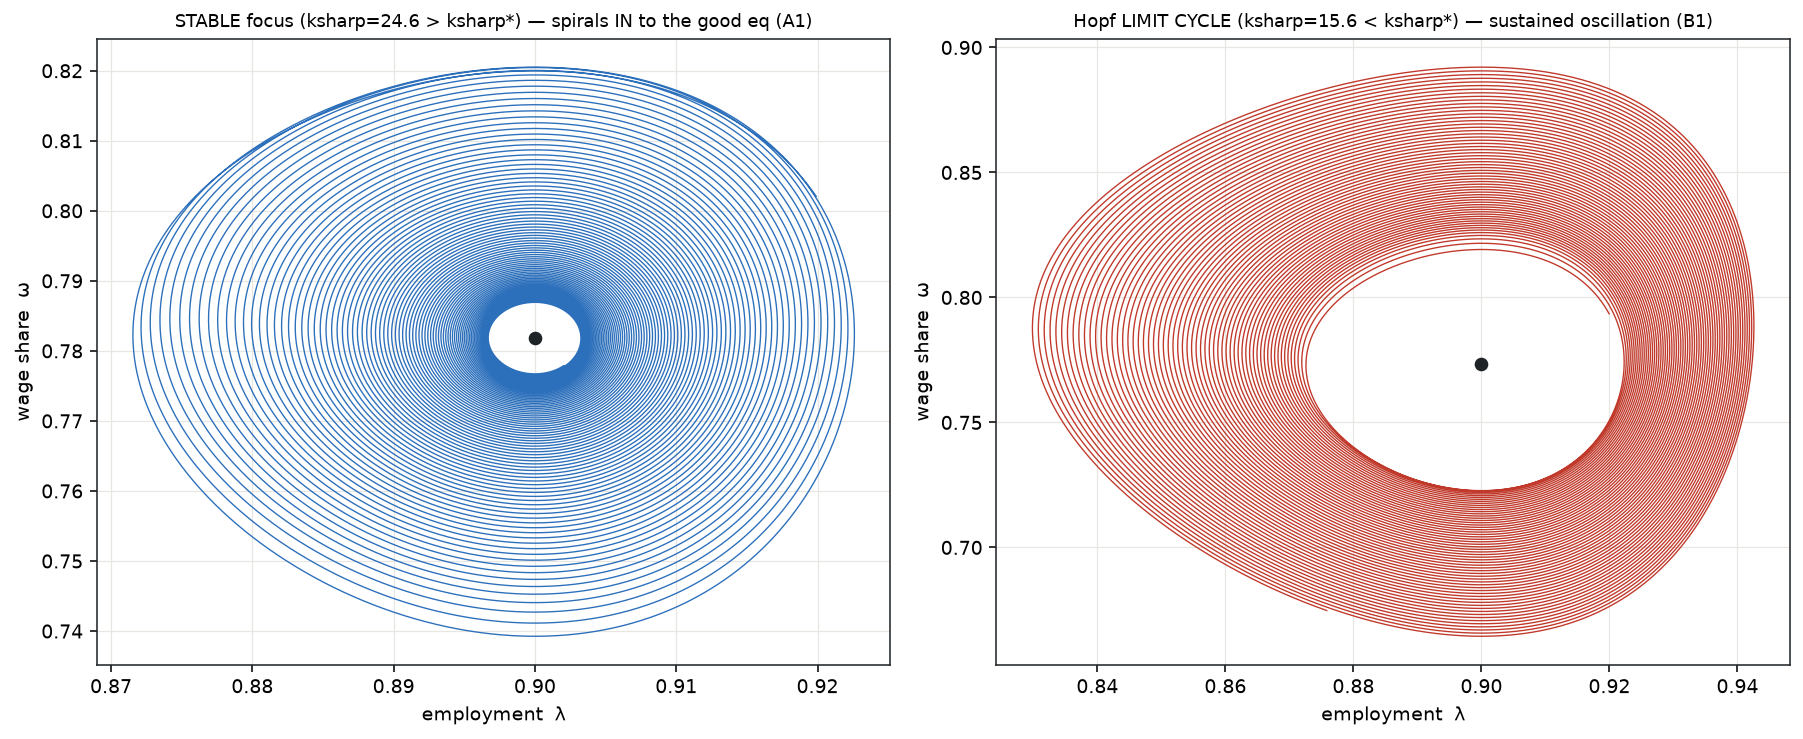
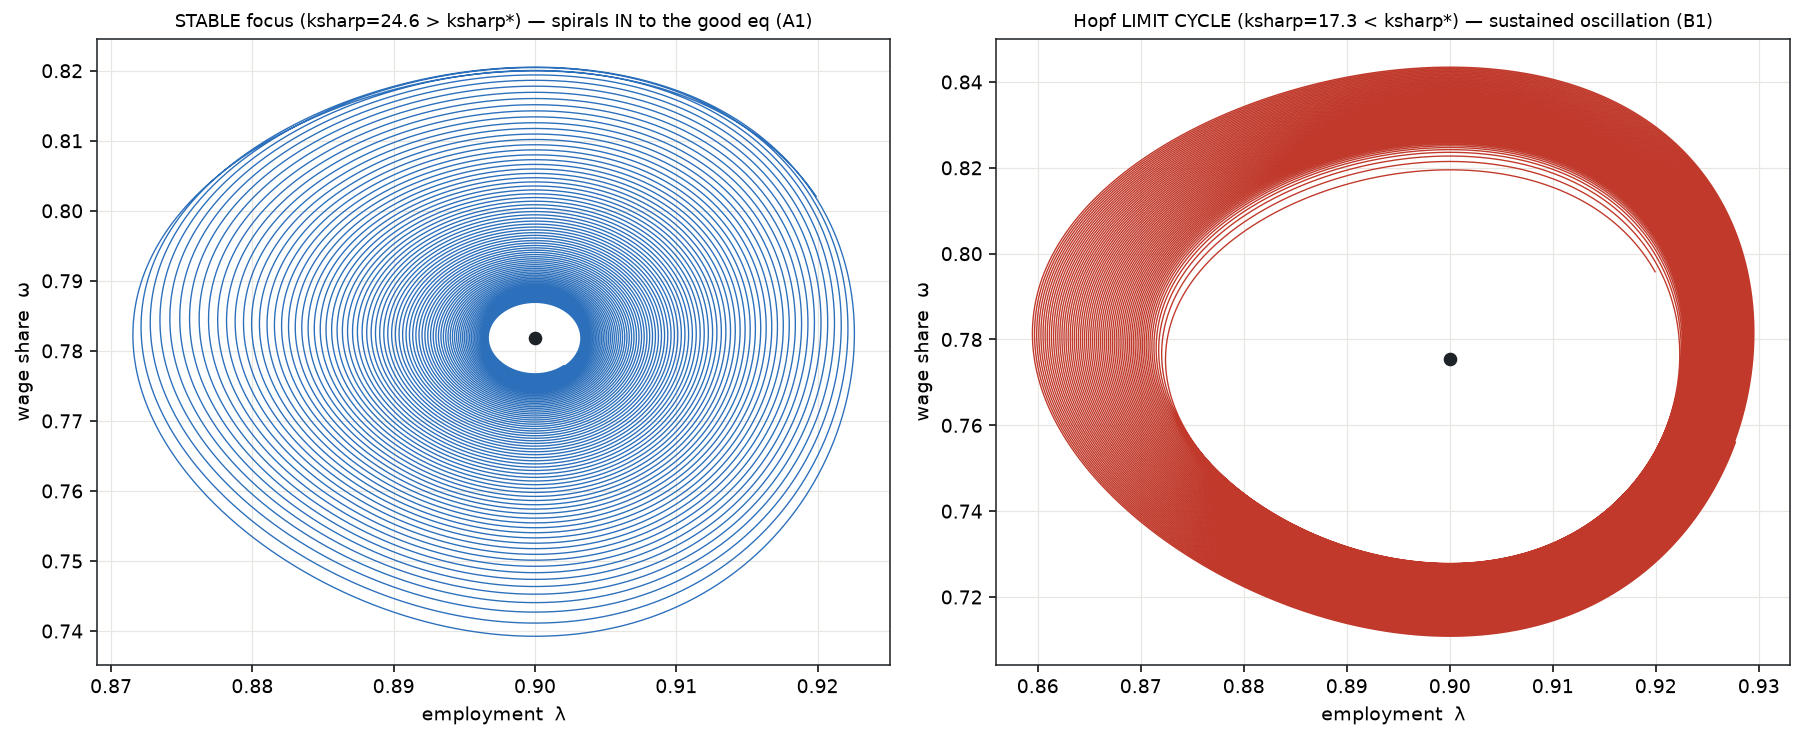
CYB-35: reviewer-gate fixes on the GK v1 Hopf
A fresh independent reviewer re-derived the load-bearing algebra symbolically and
confirmed the headline is earned (a₁a₂−a₃ = J₁₂·J₂₃·J₃₁ exactly; φ' cancels from the
threshold LOCATION; physical d*=0.131>0; genuine complex Neimark–Sacker crossing;
ksharp*=18.591 on flow and map; v0 nesting byte-exact). It caught, now fixed:

- MED (M1): the *demonstrated* limit cycle sat on the unphysical net-creditor branch
  (ksharp 15.6, d*<0). Moved it into the physical window (ksharp≈17.3, d*>0); the cycle
  still sustains (λ amp 0.032→0.037) — [2] PASS. Fig 2 regenerated.
- MED (M2): "Phillips-independent" scoped precisely — it is the threshold LOCATION that
  is Phillips-independent (φ' cancels from J₃₁); φ'>0 still sets the oscillatory character
  and cycle frequency (±i√a₂, a₂=ω*λ*φ'κ'/ν). Reworded in run_v1.py, model.py, README.
- LOW (L1): "three ways" → two genuinely independent objects (flow vs map); the two
  analytic forms are the same condition (agreement by construction).
- LOW (L2): taxonomy.md D1 row updated — no longer "rejected here"; GK-v1 is now a
  validated instance of D1 (complementing the chaos core's tested-and-rejected onset).
- LOW (L3): removed a dead `and`-idiom in the closed-form bisection call.

All self-tests still green + deterministic; v0 untouched; src/chaos/ untouched.

Claude-Session: https://claude.ai/code/session_01884zU97XeotatNzsm3gCyM

diff --git a/src/goodwin_keen/run_v1.py b/src/goodwin_keen/run_v1.py
@@ -1,5 +1,5 @@
 """
-Goodwin–Keen v1 (CYB-35) — a genuine LOCAL Hopf, recovered two ways.
+Goodwin–Keen v1 (CYB-35) — a genuine LOCAL Hopf, recovered on two independent objects (flow & map).
 
 v0 (CYB-33) passed as the instrument self-test rung but found that with a linear Phillips curve
 the (ω,λ) block is a structural zero-trace centre, so Keen breakdown there is only a *global*
@@ -8,15 +8,19 @@ the instrument against a KNOWN analytic threshold.
 
 The known answer (derived, not guessed): at the Keen good equilibrium ∂ω̇/∂ω = ∂λ̇/∂λ = 0 for ANY
 Phillips shape, and the 3×3 Routh–Hurwitz Hopf condition a₁a₂=a₃ reduces EXACTLY to
-J₁₂·J₂₃·J₃₁ = 0. Since J₁₂ = ω*φ'(λ*) ≠ 0 and J₂₃ = −λ*rκ'/ν ≠ 0, the Hopf is where **J₃₁ = 0**,
-i.e. **κ'(π*) = ν/(ν−d*)** — a closed-form locus, INDEPENDENT of the Phillips curve (φ' cancels).
-So the local Hopf is an investment-sensitivity (κ', swept via `ksharp`) / debt-coupling phenomenon,
-not a Phillips-convexity one. We add the canonical convex Phillips (flagged) and demo with it on,
-but the control parameter is `ksharp` and the locus is Phillips-independent — reported honestly.
+J₁₂·J₂₃·J₃₁ = 0 (verified symbolically). Since J₁₂ = ω*φ'(λ*) ≠ 0 and J₂₃ = −λ*rκ'/ν ≠ 0, the Hopf
+is where **J₃₁ = 0**, i.e. **κ'(π*) = ν/(ν−d*)** — a closed-form locus. So the Hopf's THRESHOLD
+LOCATION is INDEPENDENT of the Phillips curve (φ' cancels from J₃₁): it is set by investment
+sensitivity (κ', swept via `ksharp`) × the debt coupling, not by Phillips convexity. **But φ' is
+not irrelevant** — φ'>0 is what makes the crossing *oscillatory* (the imaginary pair is ±i√a₂ with
+a₂ = ω*λ*φ'κ'/ν, so φ' sets the cycle's existence and frequency, not its location). We add the
+canonical convex Phillips (flagged) and demo with it on; the control parameter is `ksharp`.
 
   0. Nesting — phillips_convex=False leaves v0 (CYB-33) byte-exact.
-  1. The Hopf, two ways — analytic (continuous-Jacobian Re→0, and the closed-form κ'=ν/(ν−d*))
-     vs instrument (RK4-map |μ|→1). Same ksharp*, crossing pair complex ⇒ Neimark–Sacker (D1).
+  1. The Hopf on two INDEPENDENT objects — the continuous FLOW (analytic Re→0, equivalently the
+     closed-form κ'=ν/(ν−d*)) and the discrete MAP (instrument RK4 |μ|→1). Same ksharp*, crossing
+     pair complex ⇒ Neimark–Sacker (D1). (The two analytic forms are the same condition, so their
+     agreement is by construction; the load-bearing cross-check is flow vs map.)
   2. Both sides reachable — stable focus (spirals in) vs Hopf-born limit cycle.
   3. Determinism.
 """
@@ -94,21 +98,22 @@ def nesting():
 def hopf_two_ways():
     lo, hi = 12.0, 26.0
     ks_analytic = _bisect(_analytic_re, lo, hi)              # continuous Re(complex) → 0
-    ks_closed   = _bisect(hopf_locus_residual and (lambda k: hopf_locus_residual(_p(k))), lo, hi)
+    ks_closed   = _bisect(lambda k: hopf_locus_residual(_p(k)), lo, hi)
     ks_instr    = _bisect(lambda k: _instrument_absmu(k)[0] - 1.0, lo, hi)
     # confirm the crossing pair is complex (Neimark–Sacker, not a real eigenvalue through 1)
     p = _p(ks_instr); x, _r = _lin.fixed_point_newton(step_fn(p), np.array(keen_good_equilibrium(p)))
     mu_c = _lin.leading_complex(_lin.jacobian(step_fn(p), x))
     eq = keen_good_equilibrium(p)
     gap = abs(ks_instr - ks_analytic) / ks_analytic * 100.0
-    print(f"[1] the local Hopf, two ways (control parameter = ksharp; convex Phillips ON):")
+    print(f"[1] the local Hopf on two INDEPENDENT objects — flow & map (control = ksharp; convex Phillips ON):")
     print(f"      analytic  ksharp* = {ks_analytic:.3f}   (continuous-Jacobian Re[complex pair] → 0)")
     print(f"      closed-form ksharp* = {ks_closed:.3f}   (κ'(π*) = ν/(ν−d*), i.e. J₃₁ = 0)")
     print(f"      instrument ksharp* = {ks_instr:.3f}   (RK4-map |μ| → 1, via jacobian/eigs)   Δ={gap:.2f}%")
     print(f"      crossing eigenvalue μ = {mu_c.real:+.5f}{mu_c.imag:+.5f}i  (COMPLEX ⇒ Neimark–Sacker,")
     print(f"      a genuine local Hopf — taxonomy D1). good eq (ω,λ,d)=({eq[0]:.3f},{eq[1]:.3f},{eq[2]:.3f}).")
-    print(f"      NB the locus κ'(π*)=ν/(ν−d*) is Phillips-INDEPENDENT: the Hopf is investment-")
-    print(f"      sensitivity (κ' via ksharp) × debt coupling, not Phillips convexity (φ' cancels).")
+    print(f"      NB the THRESHOLD LOCATION κ'(π*)=ν/(ν−d*) is Phillips-INDEPENDENT (φ' cancels from")
+    print(f"      J₃₁): driven by investment sensitivity (κ' via ksharp) × debt coupling. φ'>0 still")
+    print(f"      sets the OSCILLATORY character & cycle frequency (±i√a₂, a₂=ω*λ*φ'κ'/ν), not location.")
     return ks_analytic, ks_instr, ks_closed
 
 
@@ -129,7 +134,9 @@ def _lambda_amp(ksharp, n, lo, hi):
 # ---- 2. both sides reachable --------------------------------------------------
 def both_sides(ks_star):
     ks_stable = ks_star + 6.0                                # above ksharp* — stable focus (well damped)
-    ks_cycle  = ks_star - 3.0                                # below — Hopf-born limit cycle
+    ks_cycle  = ks_star - 1.3                                # below — Hopf-born limit cycle, kept in
+                                                             # the PHYSICAL window (d*>0; d* crosses 0
+                                                             # at ksharp≈16.9, so stay above it)
     # stable: the focus CONTRACTS (final |s−eq| < initial), and its late-window amplitude decays
     d0_s, df_s, amp_s = _lambda_amp(ks_stable, 150000, 130000, 150000)
     # cycle: sustained oscillation — compare an early tail window to a late one (non-decaying)

diff --git a/src/goodwin_keen/model.py b/src/goodwin_keen/model.py
@@ -227,7 +227,8 @@ def hopf_locus_residual(p: GKParams) -> float:
     """The closed-form Hopf condition at the good equilibrium: Routh–Hurwitz a₁a₂−a₃ reduces
     EXACTLY to J₁₂·J₂₃·J₃₁, and J₁₂,J₂₃ ≠ 0, so the Hopf is where J₃₁ = 0, i.e.
     κ′(π*) = ν/(ν−d*). Returns κ′(π*) − ν/(ν−d*): zero at the Hopf, sign = which side.
-    NB independent of the Phillips curve (φ' cancels) — the Hopf is investment-sensitivity/debt."""
+    NB the threshold LOCATION is Phillips-independent (φ' cancels from J₃₁) — investment-sensitivity
+    × debt; φ'>0 still sets the oscillatory character (the crossing pair is ±i√a₂, a₂=ω*λ*φ'κ'/ν)."""
     omega, lam, d = keen_good_equilibrium(p)
     pi = 1.0 - omega - p.r * d
     return kappa_prime(pi, p) - p.nu / (p.nu - d)

diff --git a/research/notes/concepts/taxonomy.md b/research/notes/concepts/taxonomy.md
@@ -134,10 +134,14 @@ the instances it cites may be independently validated.
 - **Defining property.** A qualitative change produced by an eigenvalue crossing the stability
   boundary **smoothly** (fold / Hopf–Neimark–Sacker / period-doubling).
 - **Diagnostic.** The dominant spectrum crosses the unit circle at the border; a normal form applies.
-- **Instance.** `benchmark` — logistic period-doubling (self-test). **Tested-and-rejected as the
-  mechanism** in CYB-2/4: the hyperbolic spectrum tops out at `|λ|≈0.92` and **never crosses** while
-  chaos exists — a *negative result* (support for `refuted`, per the principles), and the reason the
-  onset is not this class.
+- **Instance.** `validated-instance` — **GK-v1 (CYB-35): a genuine Neimark–Sacker (Hopf)** in the
+  Keen model, where the `linearize` instrument's map `|μ|→1` crossing lands (to ~1e-3%) on the
+  analytic Hopf threshold (continuous `Re→0`, equivalently the closed-form `κ'(π*)=ν/(ν−d*)`), the
+  crossing pair genuinely complex. `benchmark` — logistic period-doubling (self-test).
+  **Tested-and-rejected as the *chaos-core* onset mechanism** in CYB-2/4: there the hyperbolic
+  spectrum tops out at `|λ|≈0.92` and **never crosses** while chaos exists — a *negative result*,
+  and why that onset is D2 not D1 (the class itself is real; GK-v1 exhibits it, the chaos core does
+  not).
 
 ### D2 — Global / nonsmooth bifurcation (border collision, active constraint)
 - **Defining property.** A qualitative change produced by trajectory **contact with a switching
@@ -221,7 +225,7 @@ the instances it cites may be independently validated.
 | A2 | structurally non-hyperbolic equilibrium | conserved 3-tier chain | CYB-2/4 | numerical; formal gated (CYB-13) |
 | B1 | bounded (deflationary) limit cycle | Fisher on markup-defense | CYB-30 | structural (α_p, φ sweep) |
 | C1 | coexisting attractors, hysteresis | finite-amplitude turbulence | CYB-2/4 | numerical |
-| D1 | local bifurcation — **rejected** here | spectrum never crosses | CYB-2/4 | numerical (negative result) |
+| D1 | local bifurcation (Hopf / Neimark–Sacker) | GK-v1: instrument \|μ\|→1 on the analytic Hopf; chaos core: *rejected* (spectrum never crosses) | CYB-35 · CYB-2/4 | structural (GK-v1) / numerical |
 | D2 | global border-collision | cycle border-collision | CYB-2/4 | numerical; formal gated |
 | D3 | threshold ignition | Ponzi / ε / φ-vs-α_p | CYB-19/23/30 | structural |
 | E1 | nominal (hyperinflation) escape | credit-quantity contagion | CYB-23 | structural |
